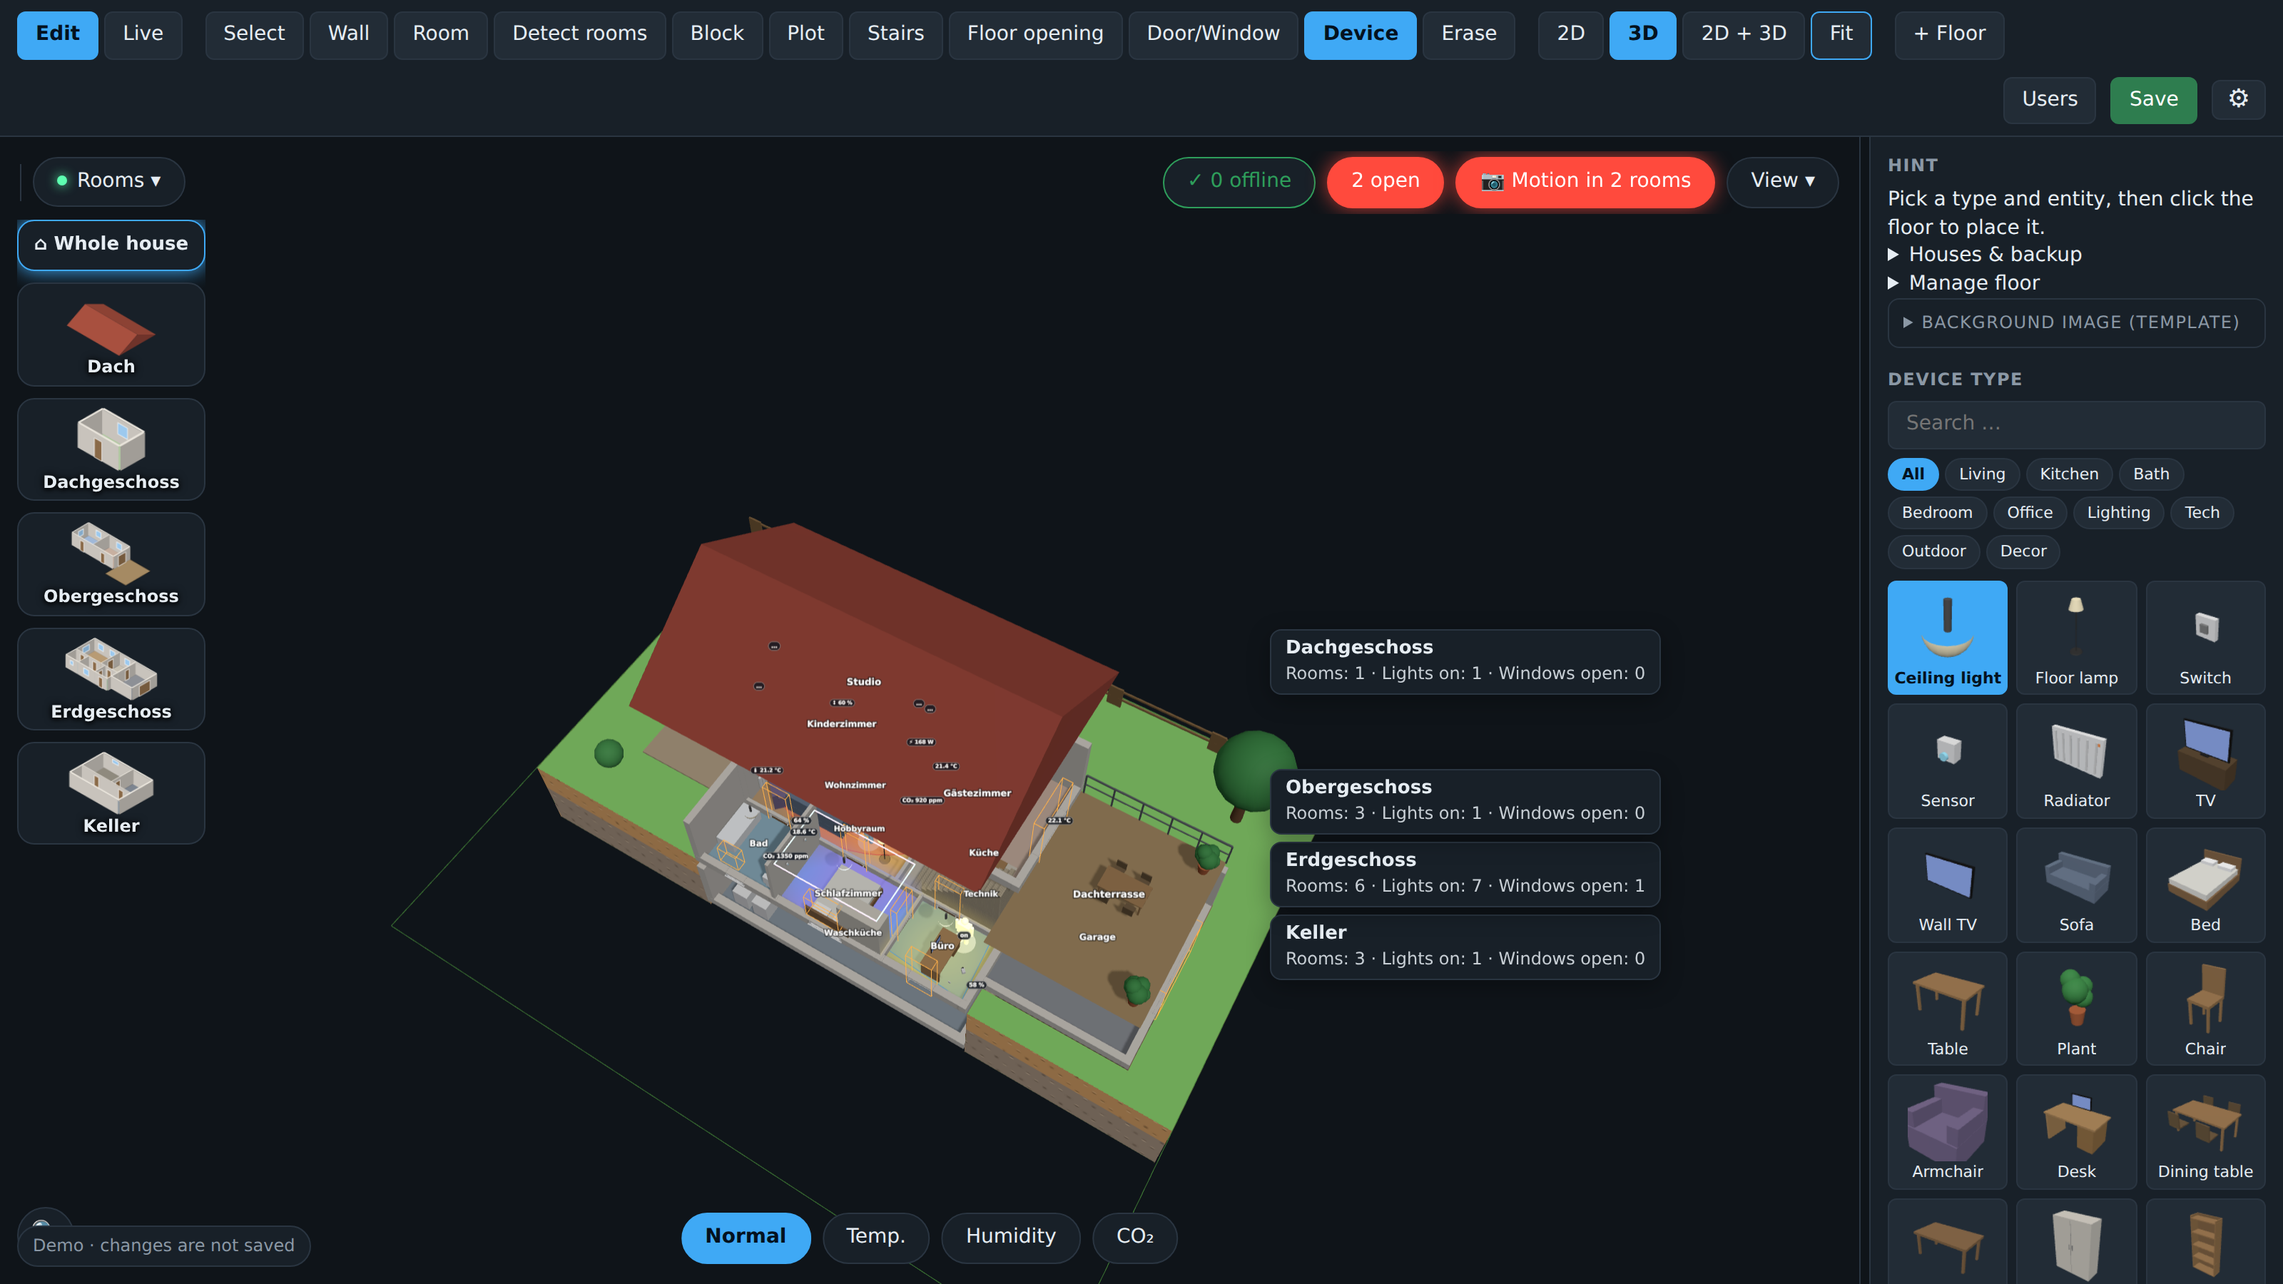
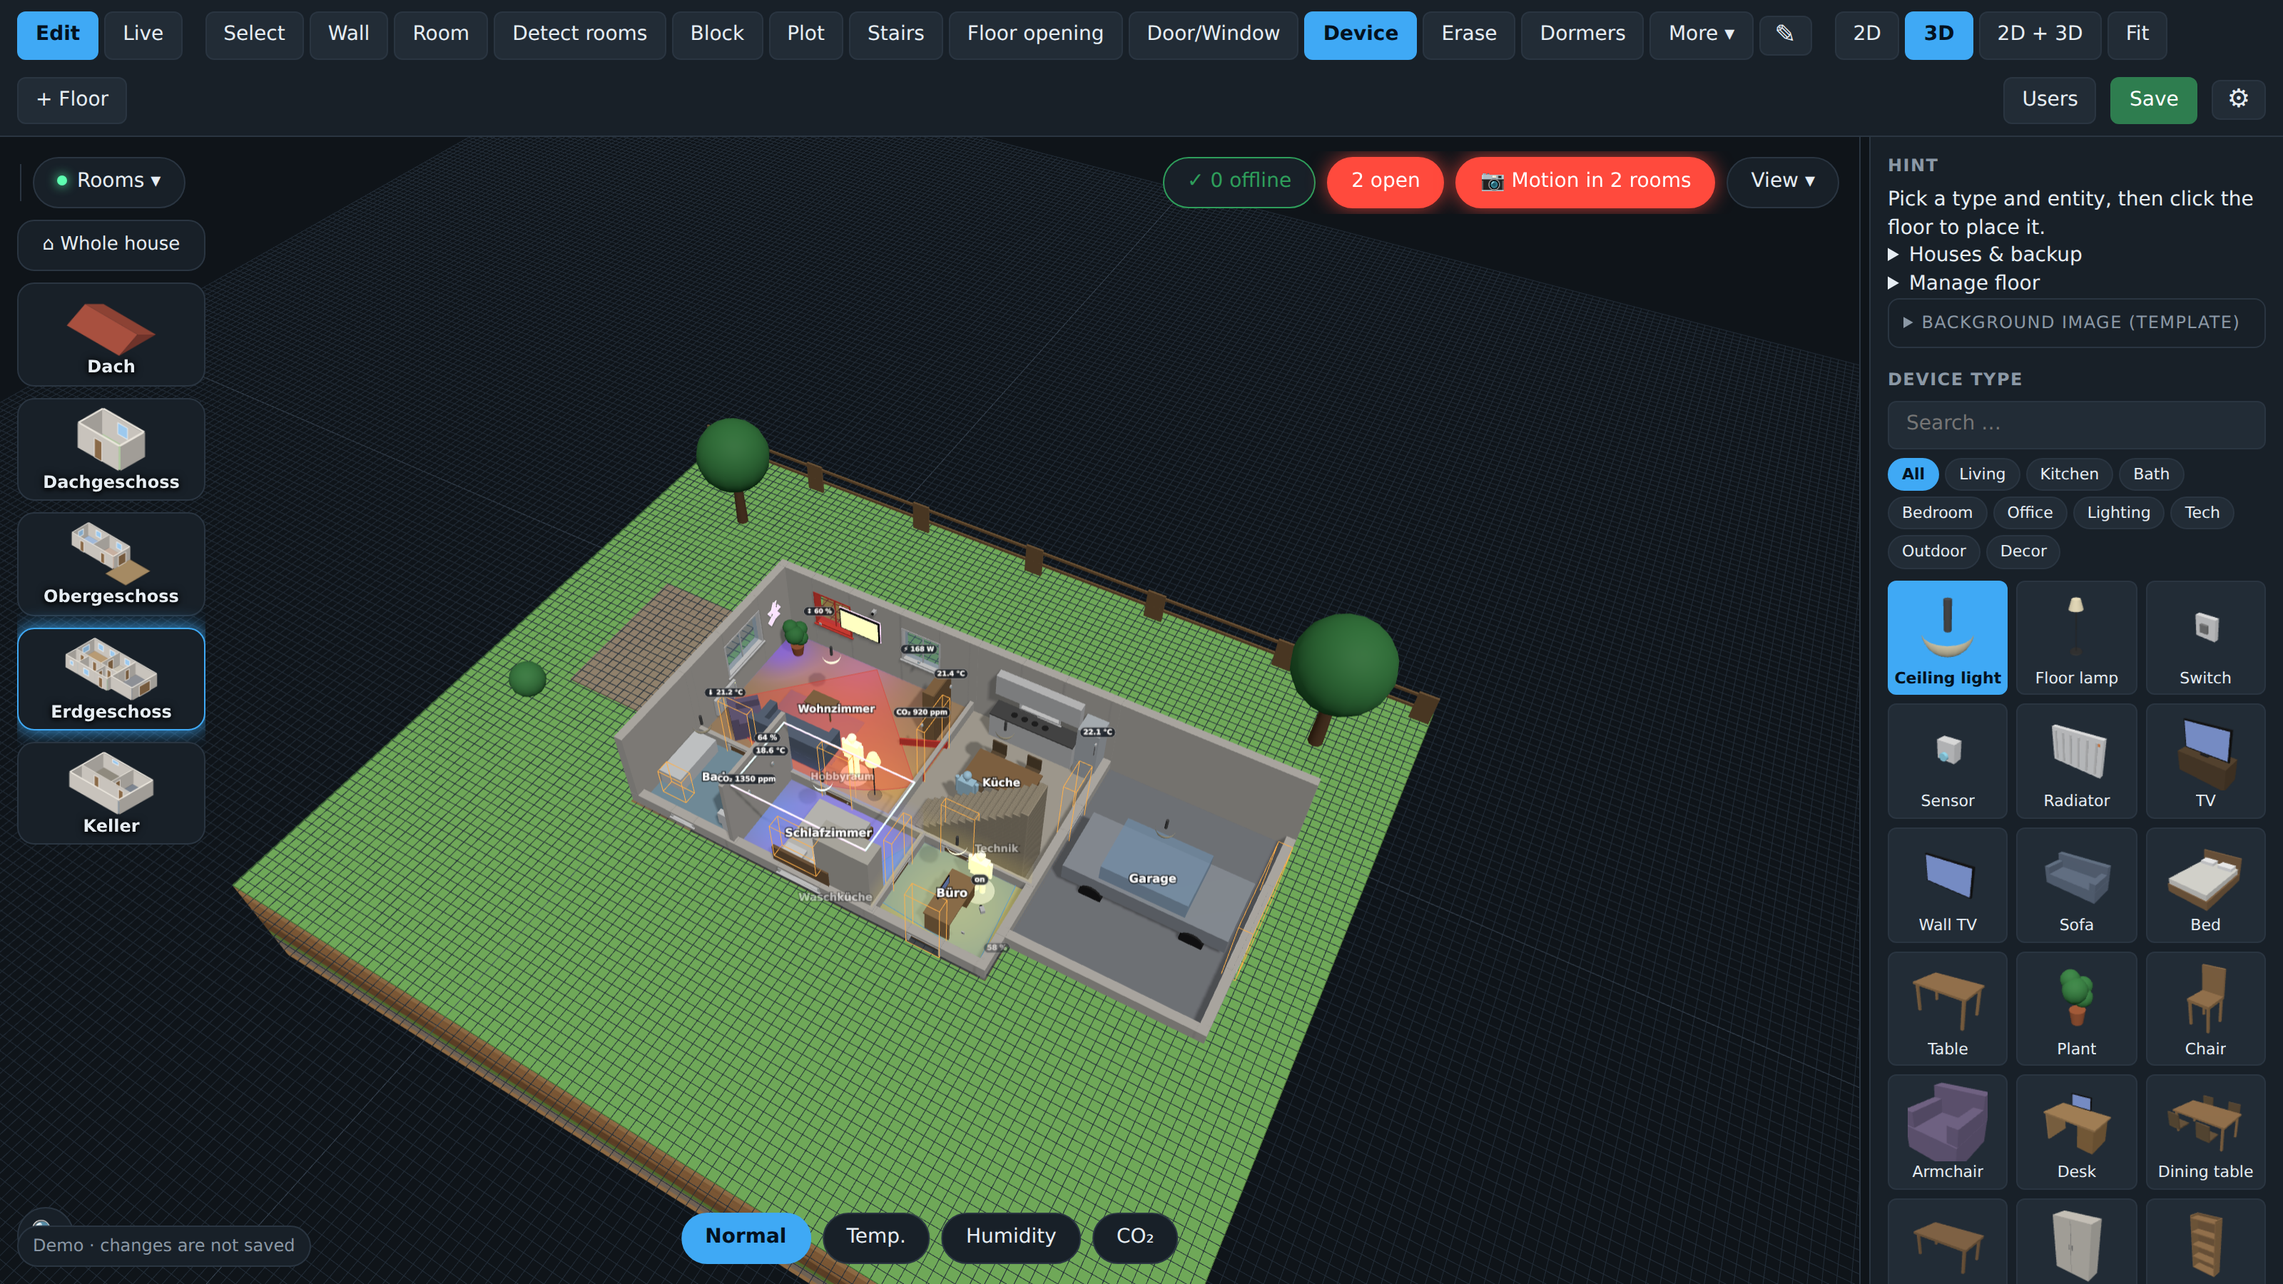
Docs: new screenshots and tour, README features and FAQ, tidy roadmap
Claude-Session: https://claude.ai/code/session_0188xLYUQf5ScaDHc591fQRD

diff --git a/tools/make_screenshots.py b/tools/make_screenshots.py
@@ -1,0 +1,141 @@
+#!/usr/bin/env python3
+"""Take the README pictures that show the editor: docs/img/library.png, toolbar.png, welcome.png, backup.png, version.png
+(from the demo file and from a throw-away add-on server), and rebuild docs/img/overview.gif from the demo.
+Needs: pip install playwright pillow aiohttp, a Chromium (CHROME env var optional).
+Usage: python3 tools/make_screenshots.py [name ...]   (names: library toolbar welcome backup version tour; default: all)"""
+import io
+import os
+import subprocess
+import sys
+import tempfile
+import time
+import urllib.request
+from pathlib import Path
+
+from PIL import Image
+from playwright.sync_api import sync_playwright
+
+ROOT = Path(__file__).resolve().parent.parent
+IMG = ROOT / "docs" / "img"
+DEMO = (ROOT / "demo" / "floorplan3d-demo.html").as_uri()
+ARGS = ["--use-gl=swiftshader", "--enable-unsafe-swiftshader", "--ignore-gpu-blocklist"]
+PORT = 8197
+
+
+def browser(p):
+    chrome = os.environ.get("CHROME")
+    return p.chromium.launch(**({"executable_path": chrome} if chrome else {}), args=ARGS)
+
+
+def demo_page(b, query="mode=live", w=1600, h=900, dsf=2):
+    pg = b.new_page(viewport={"width": w, "height": h}, device_scale_factor=dsf)
+    pg.goto(f"{DEMO}?{query}&debug=1"); pg.wait_for_timeout(3500)
+    return pg
+
+
+def shot_library(b):
+    pg = demo_page(b, "mode=edit")
+    pg.click("#view3d"); pg.click("[data-tool=device]"); pg.wait_for_timeout(1200)
+    pg.screenshot(path=str(IMG / "library.png"))
+
+
+def shot_toolbar(b):
+    pg = demo_page(b, "mode=edit", w=1400, h=860)
+    pg.click("#toolsEditBtn"); pg.wait_for_timeout(500)
+    pg.screenshot(path=str(IMG / "toolbar.png"))
+
+
+class Server:
+    """a throw-away add-on server (standalone mode: no Home Assistant, everybody may edit)"""
+    def __enter__(self):
+        self.data = tempfile.mkdtemp()
+        env = {**os.environ, "DATA_DIR": self.data, "CONFIG_DIR": os.path.join(self.data, "config"), "PORT": str(PORT)}
+        env.pop("SUPERVISOR_TOKEN", None)
+        self.proc = subprocess.Popen([sys.executable, str(ROOT / "floorplan3d" / "rootfs" / "app" / "server.py")], env=env, stdout=subprocess.DEVNULL, stderr=subprocess.DEVNULL)
+        for _ in range(40):
+            try:
+                urllib.request.urlopen(f"http://localhost:{PORT}/api/layout", timeout=1); return self
+            except OSError:
+                time.sleep(0.25)
+        raise RuntimeError("server did not start")
+
+    def __exit__(self, *a):
+        self.proc.terminate()
+
+
+def app_page(b, query="mode=edit", w=1400, h=860):
+    pg = b.new_page(viewport={"width": w, "height": h}, device_scale_factor=1.5, locale="en-US")
+    pg.goto(f"http://localhost:{PORT}/?{query}")
+    pg.wait_for_function("document.querySelector('[data-tool=select]')?.textContent.trim().length > 0", timeout=60000)   # the interface is translated
+    pg.wait_for_timeout(2500)
+    return pg
+
+
+def shot_welcome(b):
+    pg = app_page(b)
+    pg.screenshot(path=str(IMG / "welcome.png"))
+
+
+def shot_backup(b):
+    pg = app_page(b)
+    pg.evaluate("localStorage.setItem('fp3d.welcome','1')")
+    pg.click("#housePanel summary"); pg.wait_for_timeout(800)
+    pg.click("#abNow"); pg.wait_for_timeout(1500); pg.click("#abNow"); pg.wait_for_timeout(1500)
+    pg.check("#setAutoBackup"); pg.wait_for_timeout(600)
+    pg.click("#abTest"); pg.wait_for_timeout(1000)
+    pg.locator("#autoBackup").scroll_into_view_if_needed()
+    pg.locator("#panel").screenshot(path=str(IMG / "backup.png"))
+
+
+def shot_version(b):
+    pg = app_page(b, w=1100, h=700)
+    pg.wait_for_function("document.querySelector('#versionPill')?.className.includes('ver-ok')", timeout=60000)
+    pg.click("#versionPill"); pg.wait_for_timeout(600)
+    pg.locator("#versionDialog").screenshot(path=str(IMG / "version.png"))
+
+
+def shot_tour(b):
+    """the quick tour GIF: live view, room panel, heat, humidity, whole house, 2D, split view, device library"""
+    frames = []
+    def grab(pg, ms=900):
+        pg.wait_for_timeout(ms)
+        im = Image.open(io.BytesIO(pg.screenshot())).convert("RGB").resize((900, 506), Image.LANCZOS)
+        frames.append(im)
+    pg = demo_page(b, "mode=live", w=1600, h=900, dsf=1)
+    grab(pg, 600)
+    pg.evaluate("window.__fp.openRoomPanel(window.__fp.layout.floors.find((f) => f.rooms.length).rooms[0].id)"); grab(pg, 1200)
+    pg.keyboard.press("Escape")
+    pg.click("#modeBar [data-vm=temp]"); grab(pg, 1000)
+    pg.click("#modeBar [data-vm=humid]"); grab(pg, 1000)
+    pg.click("#modeBar [data-vm=normal]")
+    pg.evaluate("window.__fp.setHouseMode(true)"); grab(pg, 1800)
+    pg.evaluate("window.__fp.setHouseMode(false)")
+    pg.click("#view2d"); grab(pg, 1200)
+    pg.click("#viewSplit"); grab(pg, 1400)
+    pg.click("[data-mode=edit]"); pg.click("#view3d"); pg.click("[data-tool=device]"); grab(pg, 1400)
+    pal = frames[0].quantize(256, method=Image.Quantize.MEDIANCUT)
+    out = [f.quantize(palette=pal, dither=Image.Dither.NONE) for f in frames]
+    out[0].save(IMG / "overview.gif", save_all=True, append_images=out[1:], duration=1600, loop=0, optimize=True)
+
+
+SHOTS = {"library": shot_library, "toolbar": shot_toolbar, "tour": shot_tour}
+SERVER_SHOTS = {"welcome": shot_welcome, "backup": shot_backup, "version": shot_version}
+
+
+def main():
+    want = sys.argv[1:] or [*SHOTS, *SERVER_SHOTS]
+    with sync_playwright() as p:
+        b = browser(p)
+        for n in want:
+            if n in SHOTS:
+                SHOTS[n](b); print("written", n)
+        if any(n in SERVER_SHOTS for n in want):
+            with Server():
+                for n in want:
+                    if n in SERVER_SHOTS:
+                        SERVER_SHOTS[n](b); print("written", n)
+        b.close()
+
+
+if __name__ == "__main__":
+    main()

diff --git a/README.md b/README.md
@@ -110,7 +110,7 @@ Format reference, screenshots, prompt tips and examples: **[English](docs/IMPORT
 | **Walls, rooms and floors** | Draw on a snapping grid in a 2D blueprint editor that is linked live with the 3D view (split view). Several floors, basement and roof, placeholder blocks for floors you do not draw |
 | **Trace your plan** | Load a scan or photo of your floor plan as a template, calibrate its scale and trace over it |
 | **Stairs** | Straight, L-shaped, U-shaped and spiral stairs with real floor openings |
-| **Doors and windows** | 12 presets: front door, glass door, double door, sliding door, single / double / triple window, balcony door, fixed glazing ... they cut real openings into the wall and open when the contact sensor reports *open* |
+| **Doors and windows** | 14 presets: front door, glass door, double door, sliding door, single / double / triple window, balcony door, fixed glazing ... they cut real openings into the wall and open when the contact sensor reports *open* |
 | **Garden and surroundings** | Trees, bushes, lawn, terrace, pool, paths, fences and cars around the house, in natural colours |
 | **Plot and ground** | Draw your **plot** (Grundstück) in the 2D plan, or set how far the lawn reaches around the house. The house stands in solid ground, a basement is shown as a section with soil layers |
 | **Whole-house view** | See all floors, basement and roof stacked as one building |
@@ -143,6 +143,25 @@ Describe plot, rooms, windows and devices as JSON (write it by hand, let an AI g
 </table>
 
 API: `POST /api/import` · `GET /api/export/property` · `GET /api/import/schema`. Full guide: **[English](docs/IMPORT.en.md)** · **[Deutsch](docs/IMPORT.md)**
+
+### 🧰 Make it yours
+
+- **Customisable toolbar**: ✎ lets you show, hide and re-order the tools; rarely used ones fold into a *More ▾* menu
+- **Dormers and roof size**: add dormers (gabled or flat) from the toolbar, and set the roof size by hand if the automatic one does not fit
+- **Double-click a wall** to add a corner exactly there
+- **Placed devices stay selected** so you can fine-tune them right away (switchable in the settings)
+- **First start**: an empty house shows a welcome card: draw walls, try the example house or import your own
+
+<table>
+<tr>
+<td width="50%"><img src="docs/img/toolbar.png" alt="Dialog to customise the toolbar"><br><sub><b>Toolbar</b>: show, hide and order the tools</sub></td>
+<td width="50%"><img src="docs/img/welcome.png" alt="Welcome card on an empty house"><br><sub><b>First start</b>: three ways to begin</sub></td>
+</tr>
+<tr>
+<td width="50%"><img src="docs/img/backup.png" alt="Automatic backup settings"><br><sub><b>Automatic backups</b> with check and restore</sub></td>
+<td width="50%"><img src="docs/img/version.png" alt="Version and checksum dialog"><br><sub><b>Version and checksum</b>: proves which files really run</sub></td>
+</tr>
+</table>
 
 ### 🪑 Furnish it
 
@@ -192,6 +211,7 @@ API: `POST /api/import` · `GET /api/export/property` · `GET /api/import/schema
 - **Import by JSON / AI / GeoJSON**: describe plot, rooms, windows and devices and get a new house; includes examples, schema, API and an AI prompt ([guide](docs/IMPORT.en.md))
 - **7 languages**: Deutsch, English, Français, Español, Italiano, Nederlands, Polski (⚙ → Language, or *Auto*). Adding another one is a single file, see [CONTRIBUTING](CONTRIBUTING.md)
 - **Backup and restore**: one file with all houses, settings, pictures and models. A safety copy is made before every restore
+- **Automatic backups**: optional, daily or at your own interval, stored in the add-on's config folder (`addon_configs`), with retention by days and count, a *Check the newest* test and one-click restore
 - **Undo**: `Ctrl+Z` for everything you draw
 - **Your data stays yours**: layouts live in the add-on's `/data` folder and survive updates
 
@@ -206,7 +226,7 @@ API: `POST /api/import` · `GET /api/export/property` · `GET /api/import/schema
 
 ### 🎨 Look
 
-Dark and light theme, a hologram look as a gimmick, metric or imperial units, and 7 languages (Deutsch, English, Français, Español, Italiano, Nederlands, Polski).
+Dark theme by default (light theme and a hologram look as a gimmick are one click away), metric or imperial units, and 7 languages (Deutsch, English, Français, Español, Italiano, Nederlands, Polski).
 
 ## 📦 Installation
 
@@ -248,6 +268,22 @@ To build it yourself: `cd demo && npm install && npm run build`.
 - [Import a house by JSON / AI / GeoJSON](docs/IMPORT.en.md) ([Deutsch](docs/IMPORT.md); with screenshots, format reference, API, prompt tips; examples in [docs/examples](docs/examples))
 - [Architecture](docs/ARCHITECTURE.md): how the add-on is built
 - [Changelog](CHANGELOG.md) · [Roadmap](ROADMAP.md) · [Security policy](SECURITY.md)
+
+## 🩺 Troubleshooting / FAQ
+
+**The panel is empty or shows old behaviour after an update.** Look at the pill in the top bar (version + short checksum):
+
+| Pill | Meaning | What to do |
+| --- | --- | --- |
+| 🟢 green | Add-on files and browser files match the manifest | All fine. If something is still wrong, it is a real bug: please open an issue and mention the checksum |
+| 🟠 orange | The browser shows older files than the add-on has | Open the pill, press *Reload (clear cache)* |
+| 🔴 red | Files of the add-on differ from the manifest | Reinstall / update the add-on |
+
+**Where is my data?** Layouts and settings are in the add-on's `/data` folder and survive updates. Backups (if enabled) are in the add-on config folder: *File editor → `addon_configs` → folder with `floorplan3d` → `backups`*, or via Samba / SSH at `/addon_configs/`.
+
+**How do I update?** *Settings → Apps → 3D Floorplan → Update*. The pill's dialog can also compare with the newest manifest on GitHub (only when you press the button).
+
+**Does it send data anywhere?** No. Three.js is bundled; the only outside request is that optional GitHub comparison.
 
 ## 🛠 Development
 

diff --git a/ROADMAP.md b/ROADMAP.md
@@ -8,6 +8,20 @@ Progress is tracked with [milestones](https://github.com/BuRnEd4AiM/HA-Floorplan
 - **0.2 Professional basics** – settings, doors and windows, custom GLB models, live view for wall tablets
 - **0.3 – 0.7 Daily use** – Home Assistant areas, entity search, room panel, object list, selection lock, 2D blueprint editor with split view, light colours and effects, more furniture, light ball and LED strip, administrator-only editing, per-user room and view, whole-room control with scenes
 
+## Done in 3.20 – 3.26
+
+- [x] Dormers and manual roof size, basement without a hole in the ground
+- [x] Customisable toolbar with a *More* menu, rooms grouped by house in the user list
+- [x] Double-click a wall to add a corner, grouped opening palette, placed devices stay selected
+- [x] Automatic backups with retention, check and restore
+- [x] Version and checksum pill (add-on files, browser, GitHub)
+- [x] Add-on store listing (icon, logo, translations), welcome card on first start
+
+## Ideas, not started
+
+- [ ] HACS Lovelace card ([#13](https://github.com/BuRnEd4AiM/HA-Floorplanner/issues/13))
+- [ ] Sun light and shadows by time of day ([#68](https://github.com/BuRnEd4AiM/HA-Floorplanner/issues/68))
+
 ## v0.8 – Live sync – done in 3.6.0
 
 - [x] Live state updates via WebSocket instead of polling (3.6.0)
@@ -61,6 +75,6 @@ Describe a plot and the building as JSON (or import GeoJSON footprints) and let 
 - [x] Move floors, basement, roof, garden objects, whole-house view (0.9.0)
 - [x] Nanoleaf panel shapes and layout editor (0.10.0)
 - [x] Multi-segment LED strips: LED ring around the room, one light per section (3.3.0)
-- [ ] Automatic room detection from closed wall loops
+- [x] Automatic room detection from closed wall loops (*Detect rooms*)
 - [x] Background image / blueprint for tracing (0.7.2)
 - [x] More languages: Français, Español, Italiano, Nederlands, Polski (3.1.0)

diff --git a/CHANGELOG.md b/CHANGELOG.md
@@ -17,7 +17,7 @@ All notable changes are documented here. The format follows [Keep a Changelog](h
 
 ## [3.25.0] - 2026-10-03
 ### Added
-- **Version and checksum in the top bar**: a pill with the version and a short checksum (`✓ v3.24.1 · a1b2c3d`), green when the files of the add-on and the files the browser loaded both match the committed manifest (`manifest.json`, written by `tools/make_manifest.py`, checked by the tests). The dialog behind it lists the checks and can compare with the manifest on GitHub (`main`): same state, newer version available, or different. *Reload (clear cache)* when the browser shows old files
+- **Version and checksum in the top bar**: a pill with the version and a short checksum (`✓ v3.26.0 · a1b2c3d`), green when the files of the add-on and the files the browser loaded both match the committed manifest (`manifest.json`, written by `tools/make_manifest.py`, checked by the tests). The dialog behind it lists the checks and can compare with the manifest on GitHub (`main`): same state, newer version available, or different. *Reload (clear cache)* when the browser shows old files
 ### Changed
 - Double click on a wall: the corner may now be 10 cm from the end of the wall (was 20 cm)
 

diff --git a/floorplan3d/CHANGELOG.md b/floorplan3d/CHANGELOG.md
@@ -17,7 +17,7 @@ All notable changes are documented here. The format follows [Keep a Changelog](h
 
 ## [3.25.0] - 2026-10-03
 ### Added
-- **Version and checksum in the top bar**: a pill with the version and a short checksum (`✓ v3.24.1 · a1b2c3d`), green when the files of the add-on and the files the browser loaded both match the committed manifest (`manifest.json`, written by `tools/make_manifest.py`, checked by the tests). The dialog behind it lists the checks and can compare with the manifest on GitHub (`main`): same state, newer version available, or different. *Reload (clear cache)* when the browser shows old files
+- **Version and checksum in the top bar**: a pill with the version and a short checksum (`✓ v3.26.0 · a1b2c3d`), green when the files of the add-on and the files the browser loaded both match the committed manifest (`manifest.json`, written by `tools/make_manifest.py`, checked by the tests). The dialog behind it lists the checks and can compare with the manifest on GitHub (`main`): same state, newer version available, or different. *Reload (clear cache)* when the browser shows old files
 ### Changed
 - Double click on a wall: the corner may now be 10 cm from the end of the wall (was 20 cm)
 
